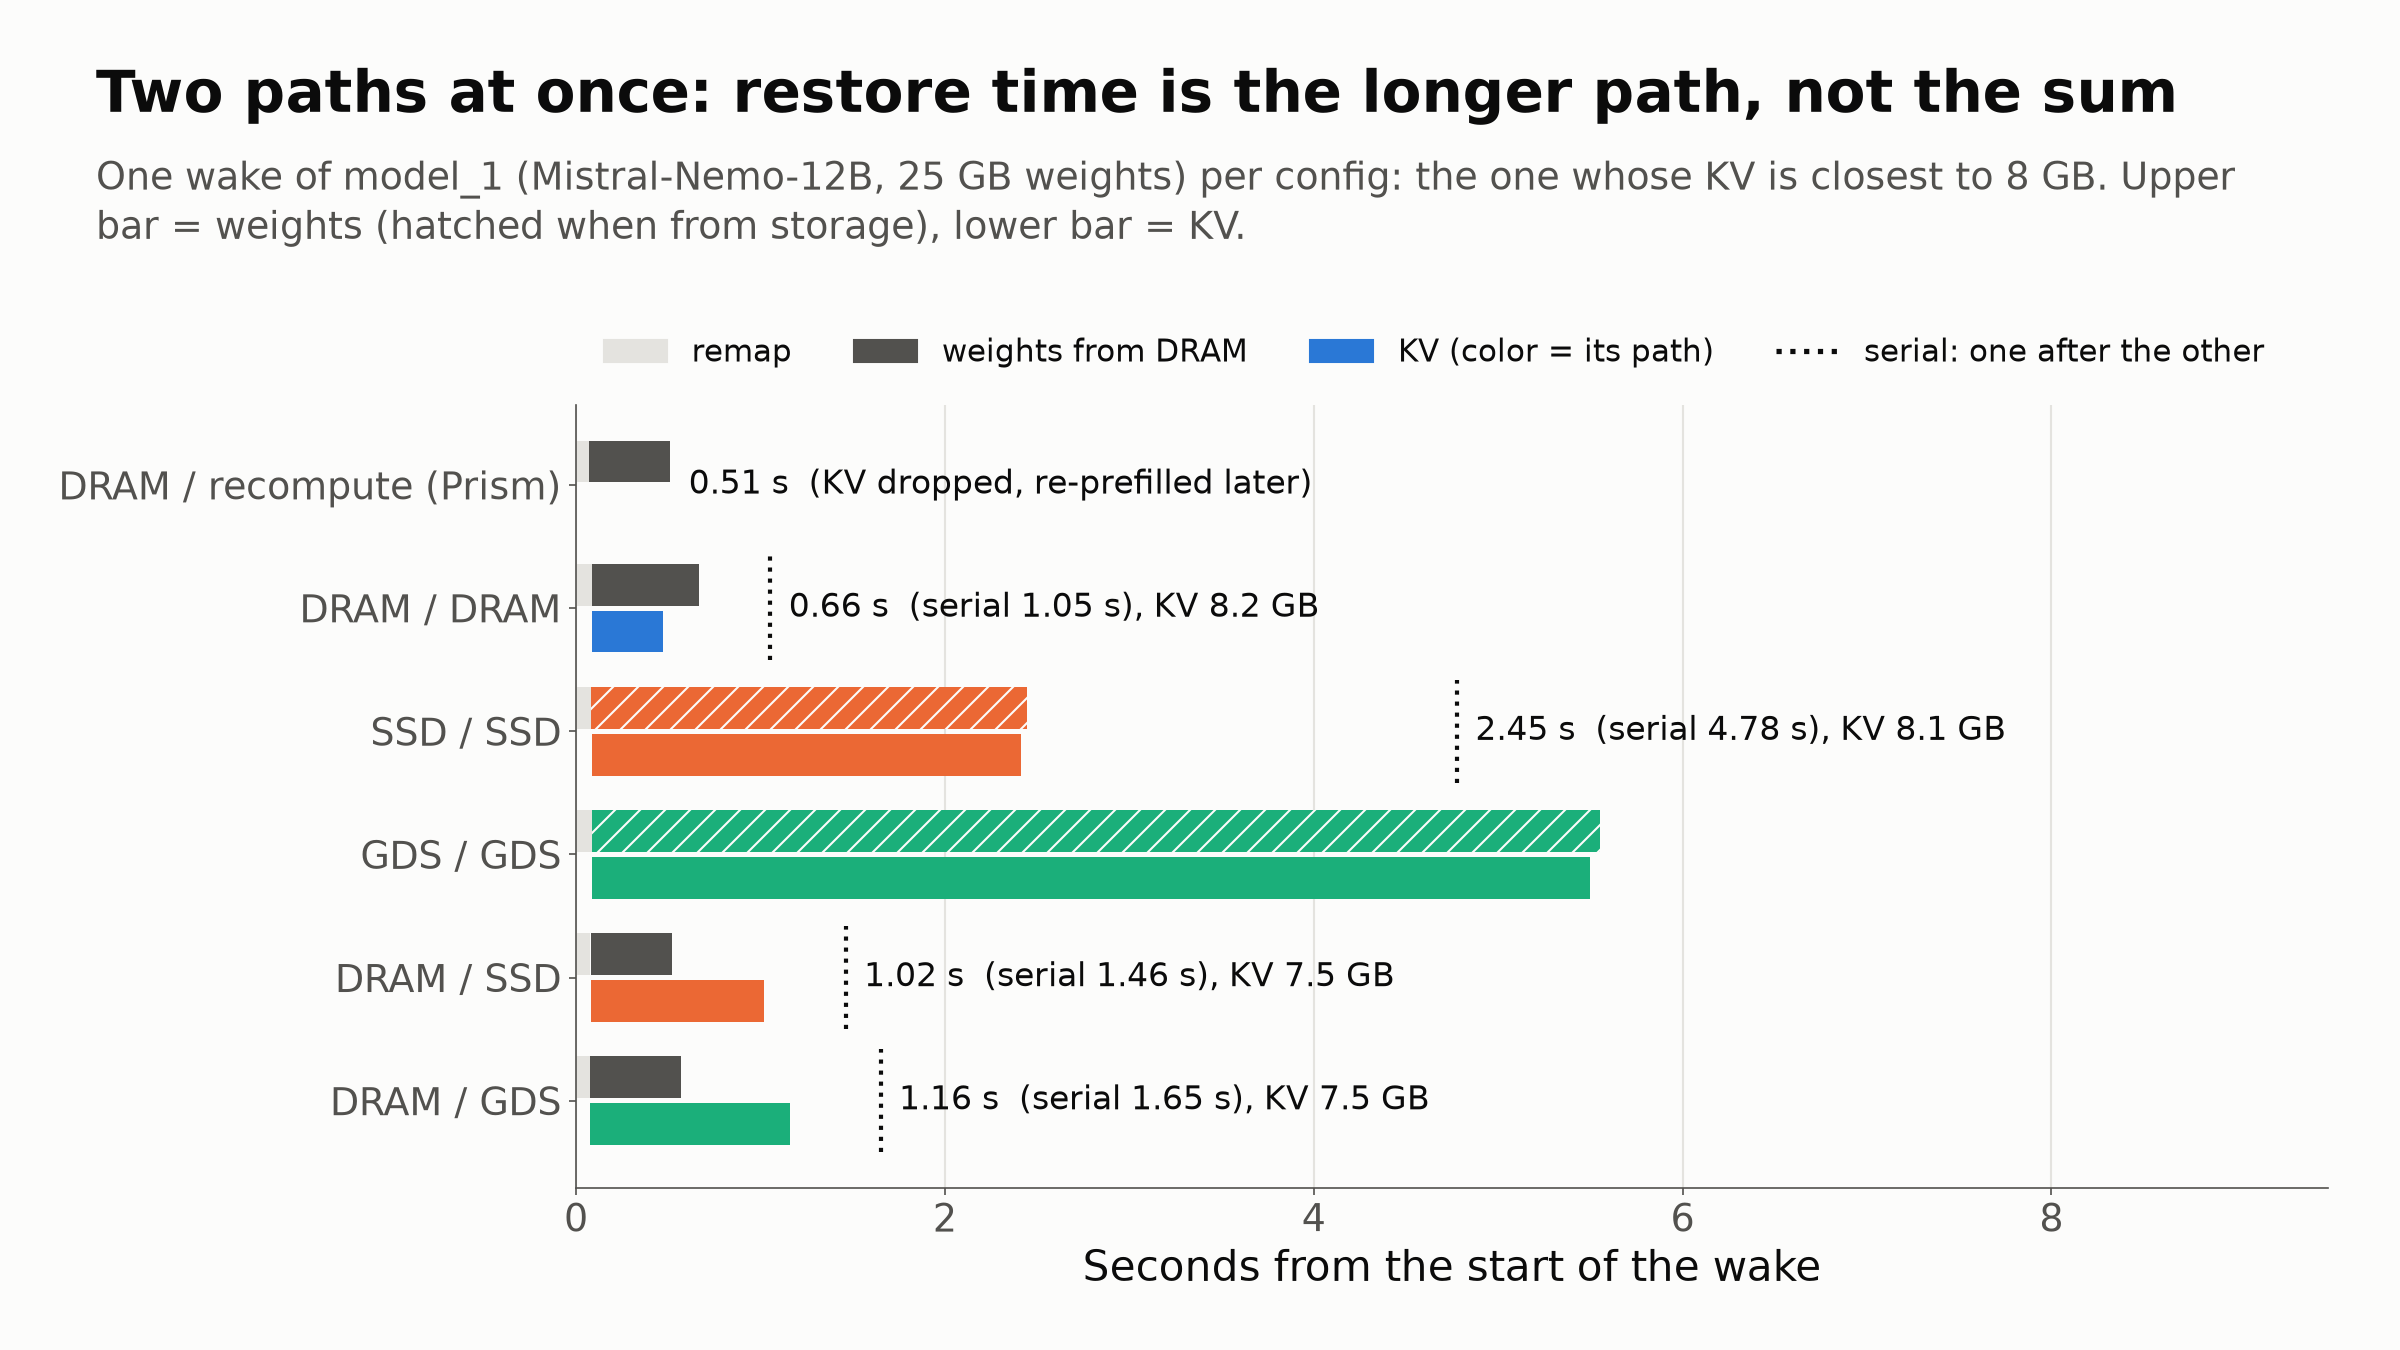
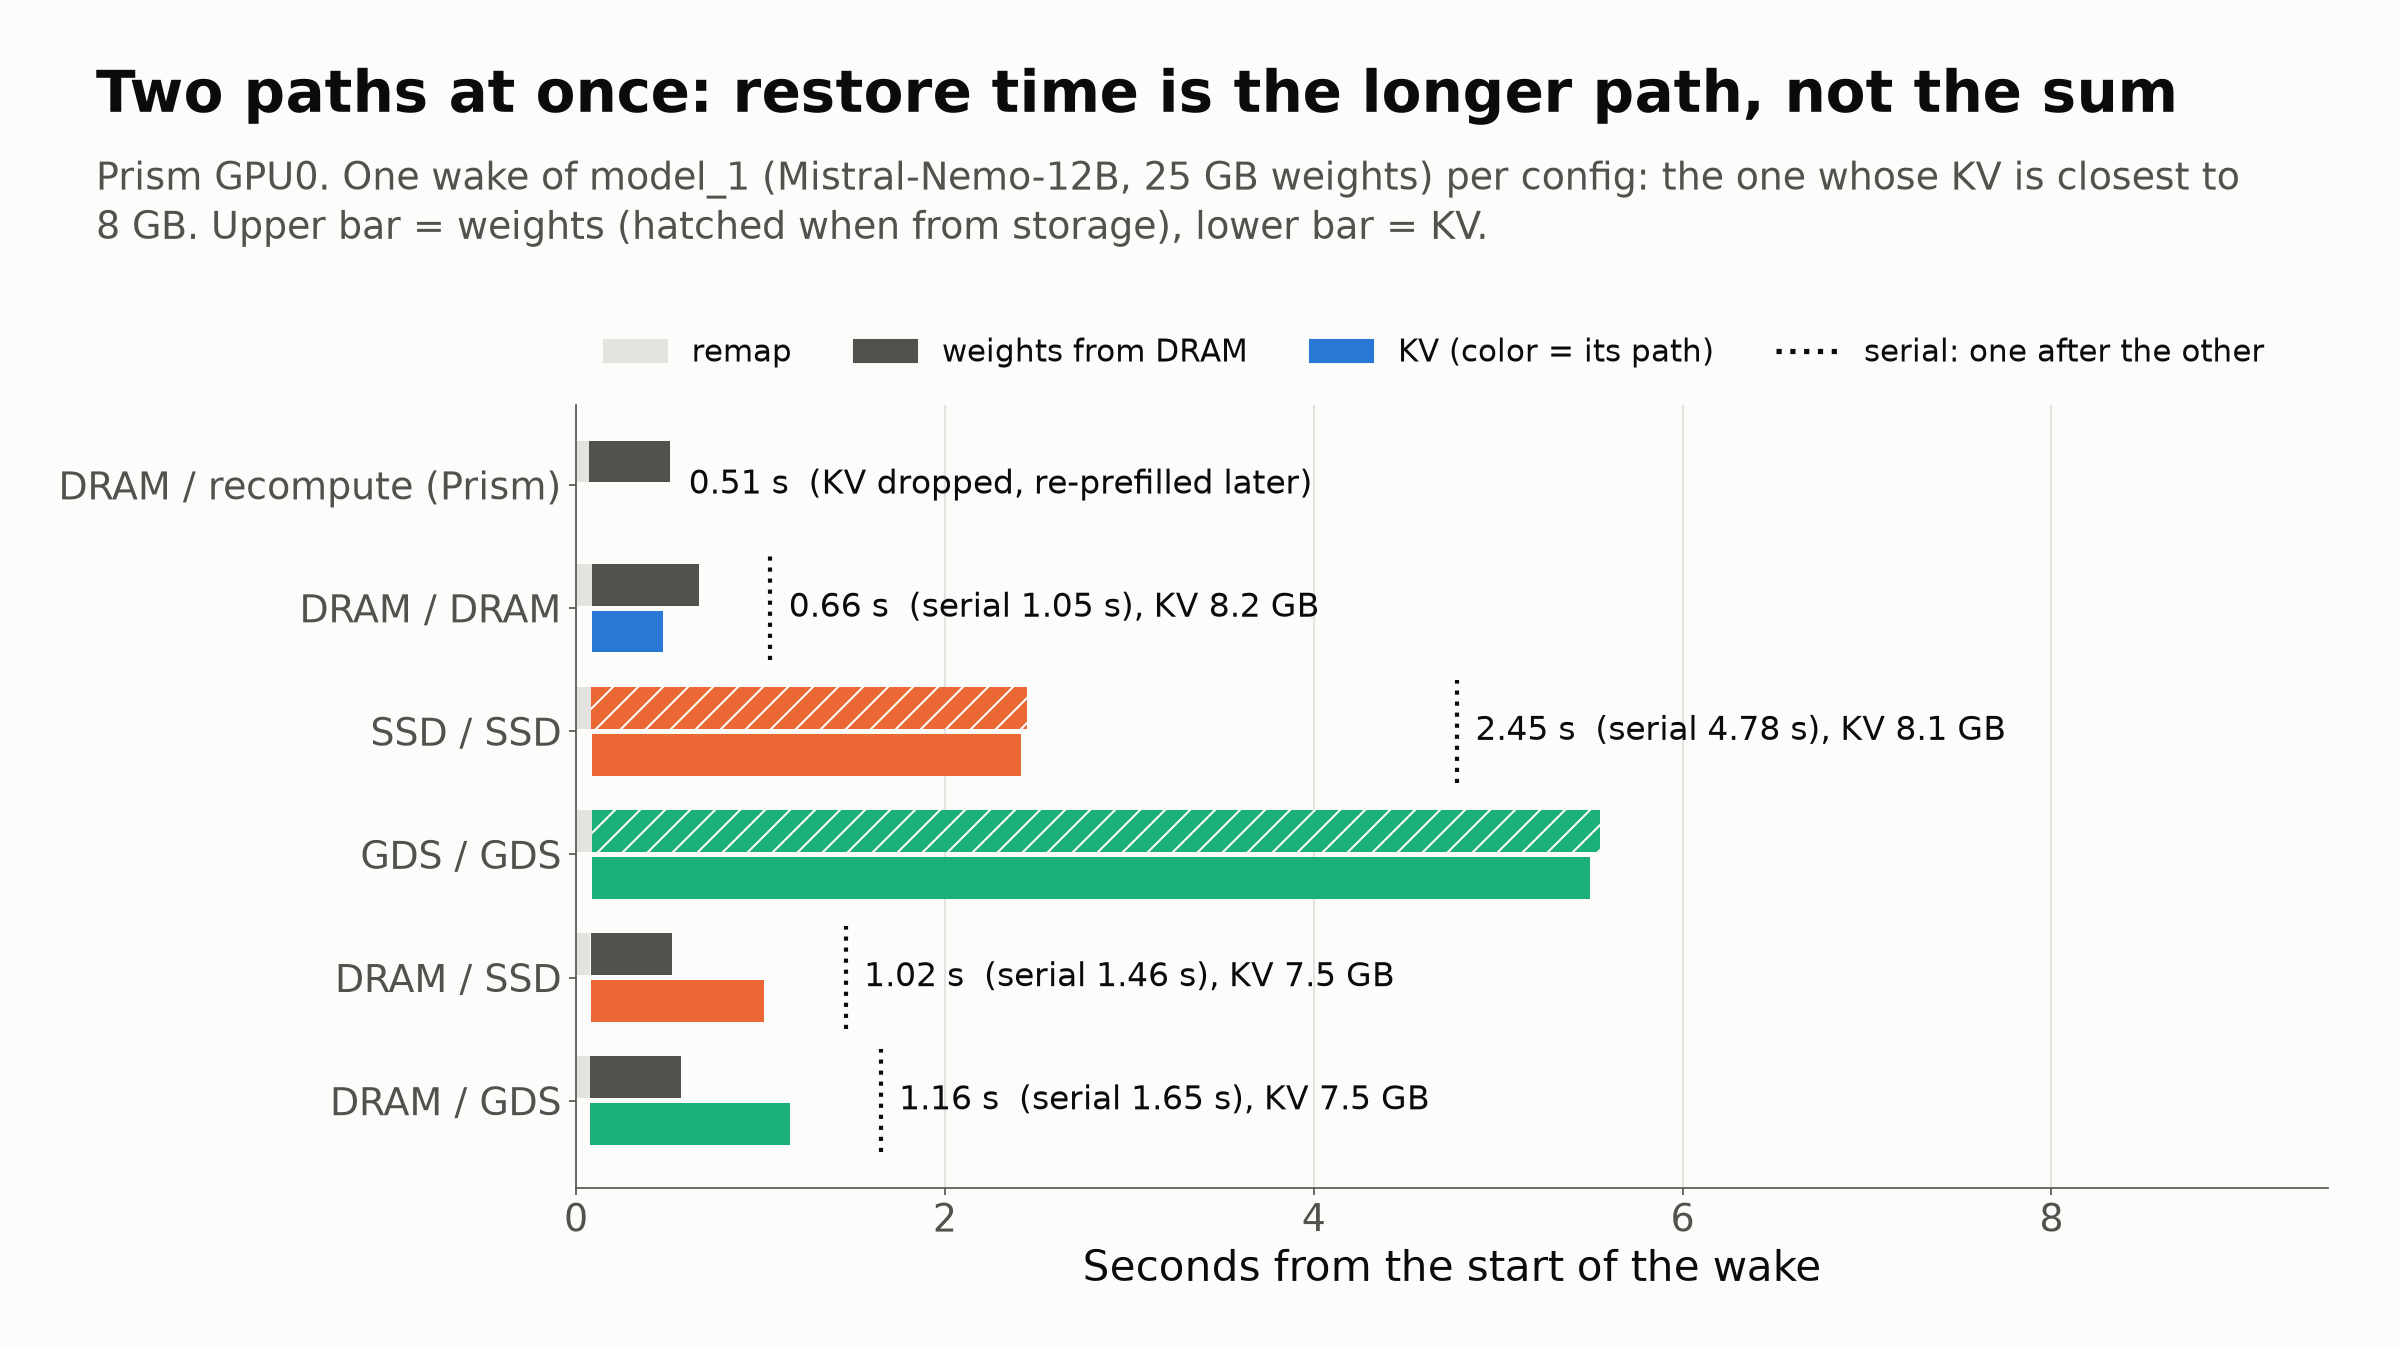
Label the pressured GPU as Prism GPU0 in slide figures
Matches the placement file (swap_8_2gpus.json) and the setup slide. Our
GPU 1 is Prism's GPU0.

Changed region(s): [[0.0312, 0.1244, 0.9375, 0.1867]]

diff --git a/analysis/plot_paths_slides.py b/analysis/plot_paths_slides.py
@@ -6,6 +6,7 @@ Encoding, shared by every figure:
 Every series is also labeled directly or in a legend, so color never carries identity alone.
 
 Inputs: results/prism_8m2g_rep2_kvp_<config>/ (one run per config, replication 2).
+Figures label the pressured GPU as "Prism GPU0" (our GPU 1), matching the placement file.
 Outputs: results/comparison/slides/{restore_vs_kv,restore_breakdown,dram_traffic,ttft_cdf}.png
 
 usage: python analysis/plot_paths_slides.py
@@ -106,7 +107,7 @@ def fig_restore_vs_kv():
               ("Weights restored from SSD (POSIX or GDS)", ["ssd+ssd", "gds+gds"])]
     for ax, (title, cfgs) in zip(axes, panels):
         for c in cfgs:
-            res = [r for r in DATA[c][0] if r["event"] == "resume"]  # GPU 1 wakes
+            res = [r for r in DATA[c][0] if r["event"] == "resume"]  # wakes on Prism GPU0
             x = np.array([r.get("kv_bytes", 0) / GB for r in res])
             y = np.array([restore_s(r) for r in res])
             st = style(c)
@@ -126,7 +127,7 @@ def fig_restore_vs_kv():
     axes[0].set_ylabel("Restore time (s)")
     axes[0].set_ylim(0, None)
     headline(fig, "Restore time = weights floor + KV size / KV-path bandwidth",
-             "GPU 1 (3x Mistral-Nemo-12B, 25 GB weights each, + Llama-3.1-8B, 17 GB). One point per wake during "
+             "Prism GPU0 (3x Mistral-Nemo-12B, 25 GB weights each, + Llama-3.1-8B, 17 GB). One point per wake during "
              "the trace. Lines: least-squares fits, labeled with the KV path's bandwidth. Recompute (gray): no KV.")
     for ax in axes:
         ax.margins(x=0)
@@ -173,7 +174,7 @@ def fig_restore_breakdown():
                        Line2D([], [], color=INK, linestyle=":", label="serial: one after the other")],
               loc="lower left", bbox_to_anchor=(0, 1.01), ncol=4, frameon=False, fontsize=15)
     headline(fig, "Two paths at once: restore time is the longer path, not the sum",
-             "One wake of model_1 (Mistral-Nemo-12B, 25 GB weights) per config: the one whose KV is closest to "
+             "Prism GPU0. One wake of model_1 (Mistral-Nemo-12B, 25 GB weights) per config: the one whose KV is closest to "
              "8 GB. Upper bar = weights (hatched when from storage), lower bar = KV.")
     save(fig, "restore_breakdown.png")
 
@@ -183,7 +184,7 @@ STORAGE = {"ssd", "gds"}
 
 
 def traffic(cfg):
-    """GB on GPU 1: through host DRAM (sleep/wake, weights+state / KV) and SSD I/O, plus the startup save."""
+    """GB on Prism GPU0 (our GPU 1): through host DRAM (sleep/wake, weights+state / KV) and SSD I/O, plus the startup save."""
     trace, startup, _ = DATA[cfg]
     t = dict(startup_dram=0.0, startup_ssd=0.0, sleep_weights=0.0, sleep_kv=0.0, wake_weights=0.0,
              wake_kv=0.0, ssd=0.0)
@@ -258,7 +259,7 @@ def fig_dram_traffic():
                             Patch(color=GRAY, label="trace: SSD I/O")],
                    loc="lower left", bbox_to_anchor=(0, 1.09), ncol=2, frameon=False, fontsize=15)
     headline(fig, "Weights are saved once, then read back on every wake",
-             "GPU 1 (3x Mistral-Nemo-12B + Llama-3.1-8B). A trace sleep writes only KV + ~0.6 GB state; "
+             "Prism GPU0 (3x Mistral-Nemo-12B + Llama-3.1-8B). A trace sleep writes only KV + ~0.6 GB state; "
              "a wake reads the whole model (17-25 GB). GDS keeps KV out of DRAM; POSIX SSD passes a host buffer.")
     save(fig, "dram_traffic.png")
 
@@ -286,7 +287,7 @@ def fig_ttft():
     axes[1].legend(loc="center left", bbox_to_anchor=(1.03, 0.5), frameon=False, fontsize=16, labelspacing=0.9)
     n = len(DATA["dram+dram"][2])
     headline(fig, "DRAM weights + SSD/GDS KV: the shortest TTFT tail",
-             f"Requests to the pressured GPU (4 models, {n} requests). Prism Arena trace, time scale 0.2, "
+             f"Requests to Prism GPU0 (3x Nemo-12B + Llama-8B, {n} requests). Arena-Chat trace, time scale 0.2, "
              "replication 2, one run per config.")
     save(fig, "ttft_cdf.png")
 
